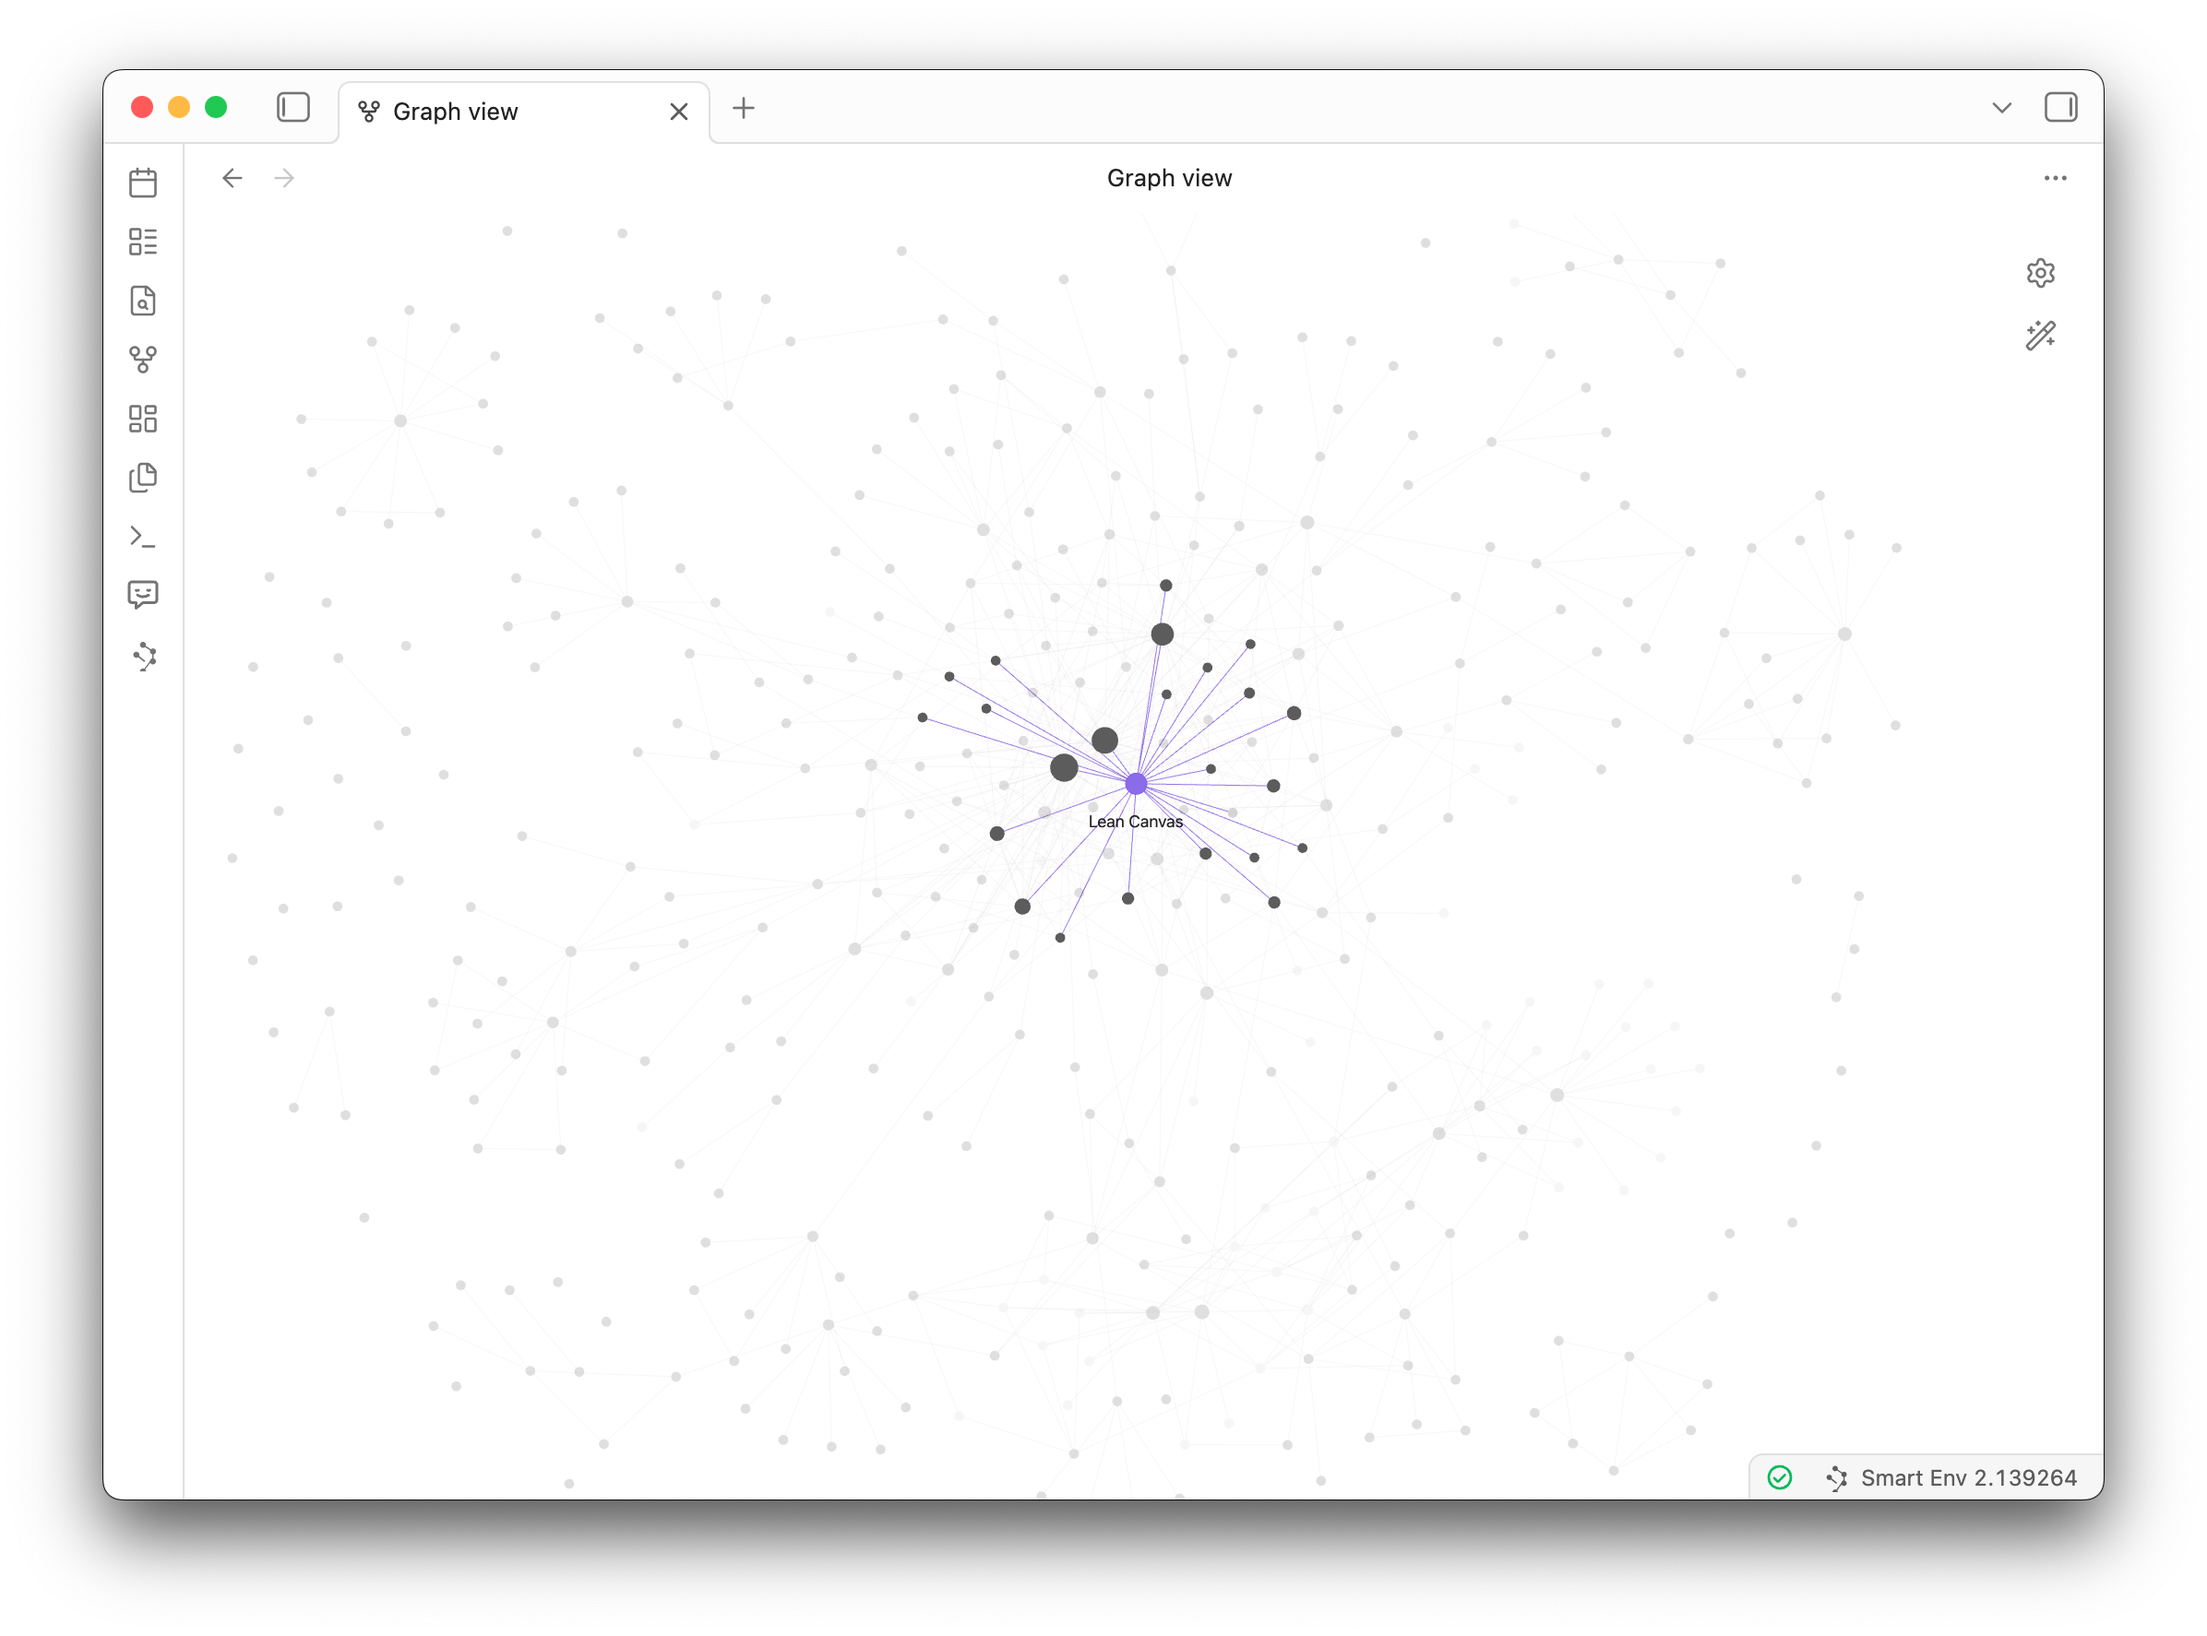
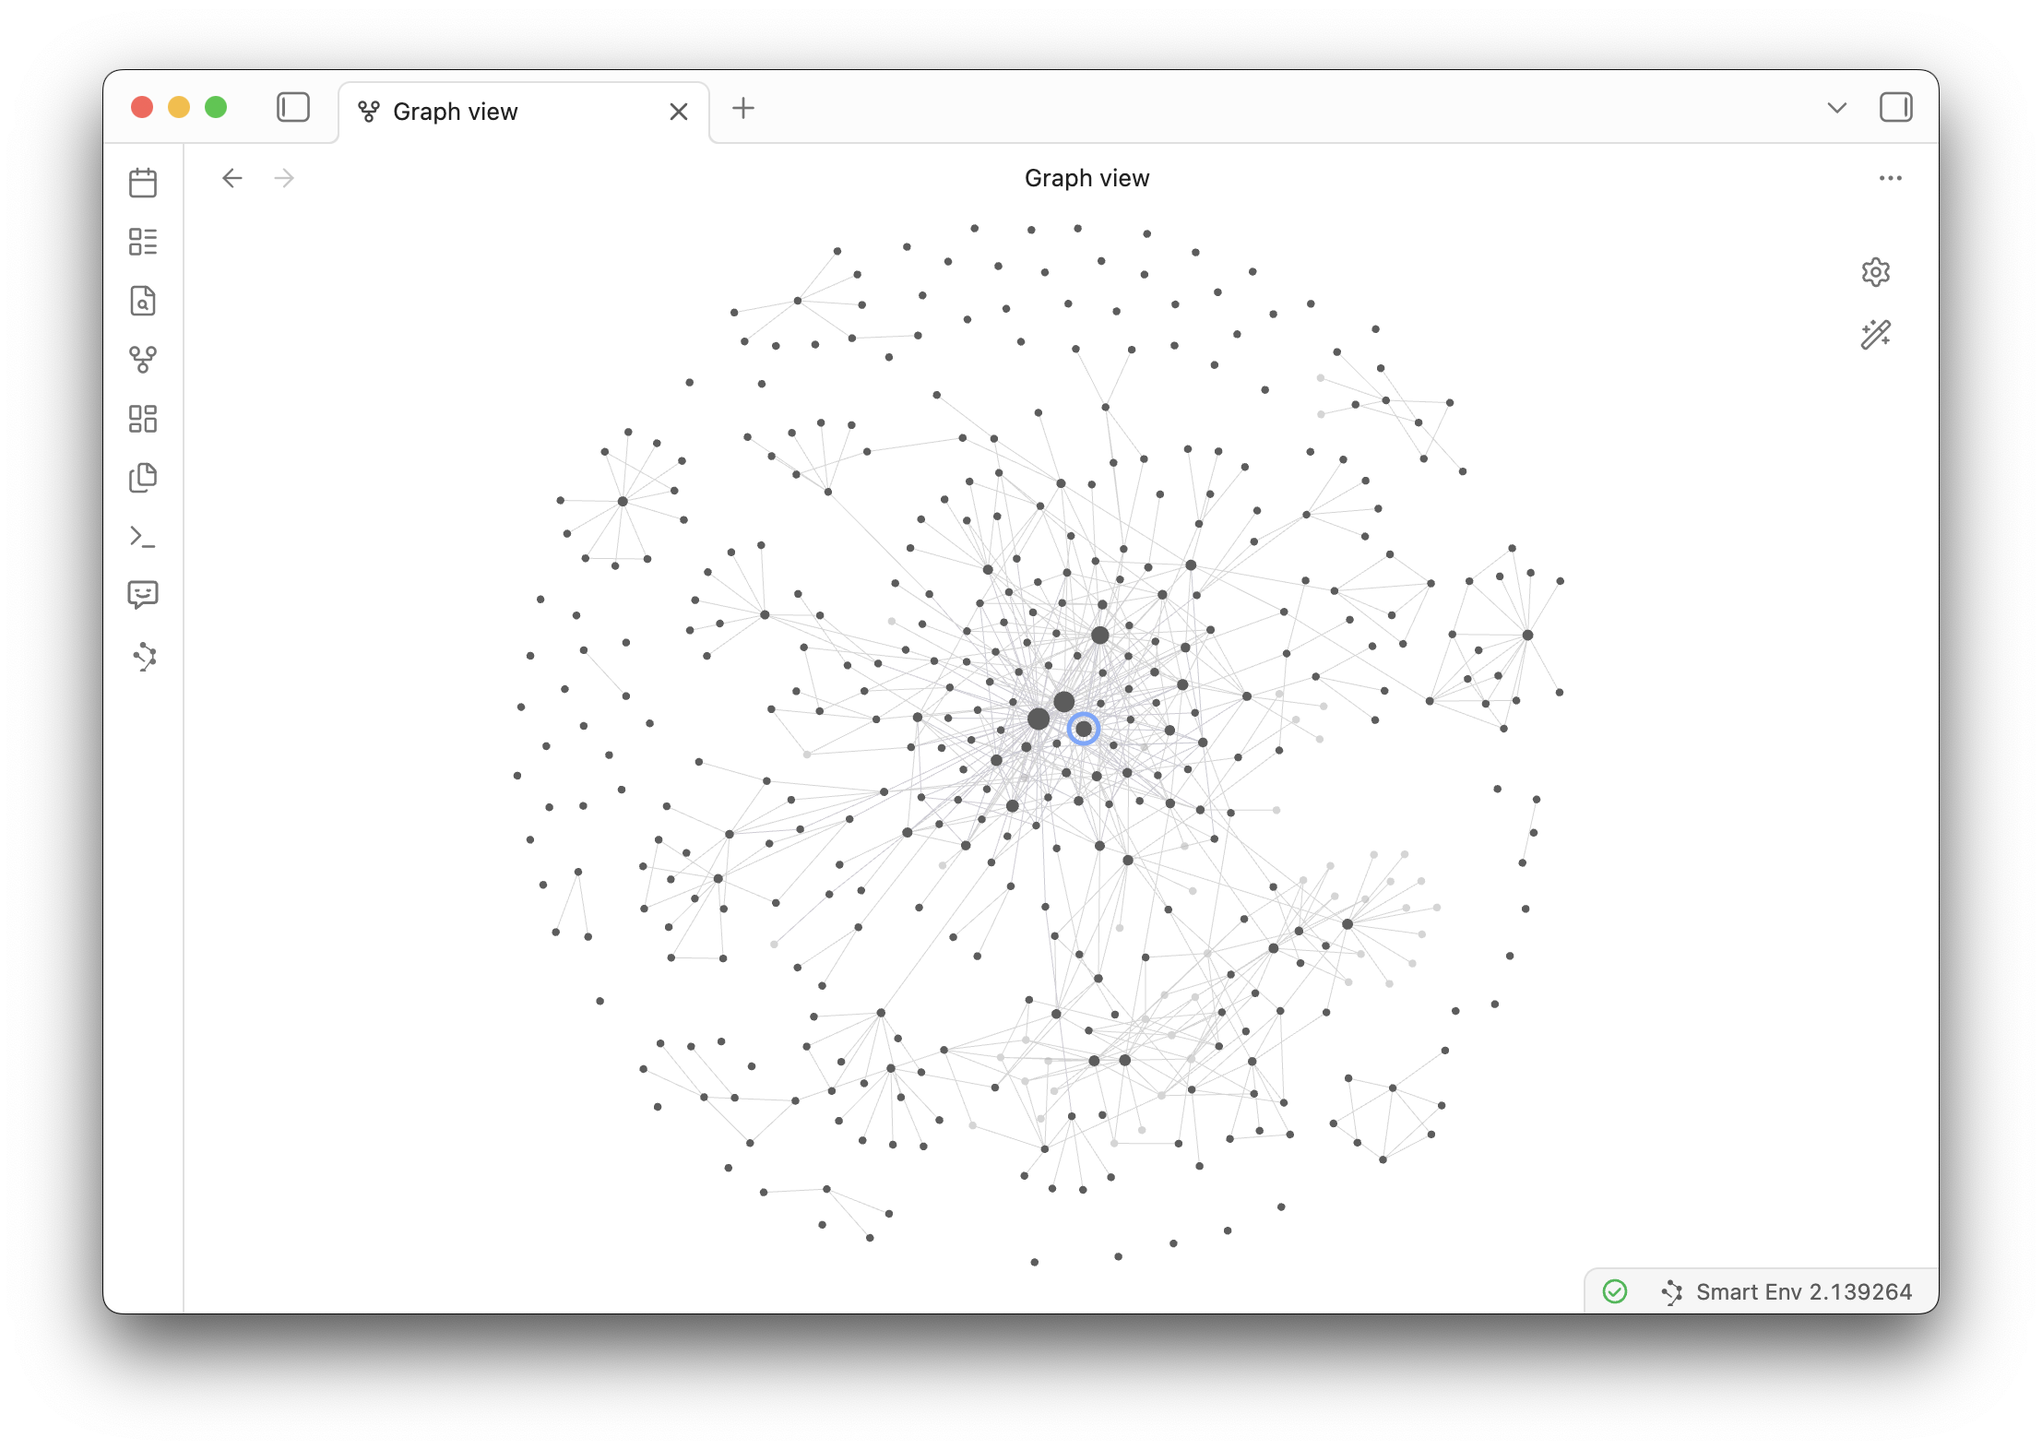
Update Obsidian graph screenshot and refine caption

diff --git a/src/data/blog/claude-code-for-founders-who-hate-the-terminal.md b/src/data/blog/claude-code-for-founders-who-hate-the-terminal.md
@@ -145,7 +145,7 @@ What I've shown you is the simplest starting point – one folder, one document,
 
 ![Obsidian graph view – nine months of compounding documents](../../assets/images/cc-obsidian-graph.png)
 
-This is my Obsidian vault after nine months of working this way. Every node is a document. Every line is a connection between them. It started with a single file, just like yours.
+This is my Obsidian vault after nine months of working this way. Every node is a document. Every line is a connection between them. The blue circle? That's my Lean Canvas – the first document I created. Still connected to everything.
 
 Where it goes from here: making Claude automatically load your company context at the start of every session. Connecting it to your email, calendar and Slack. Building workflows you run with a single command.
 
